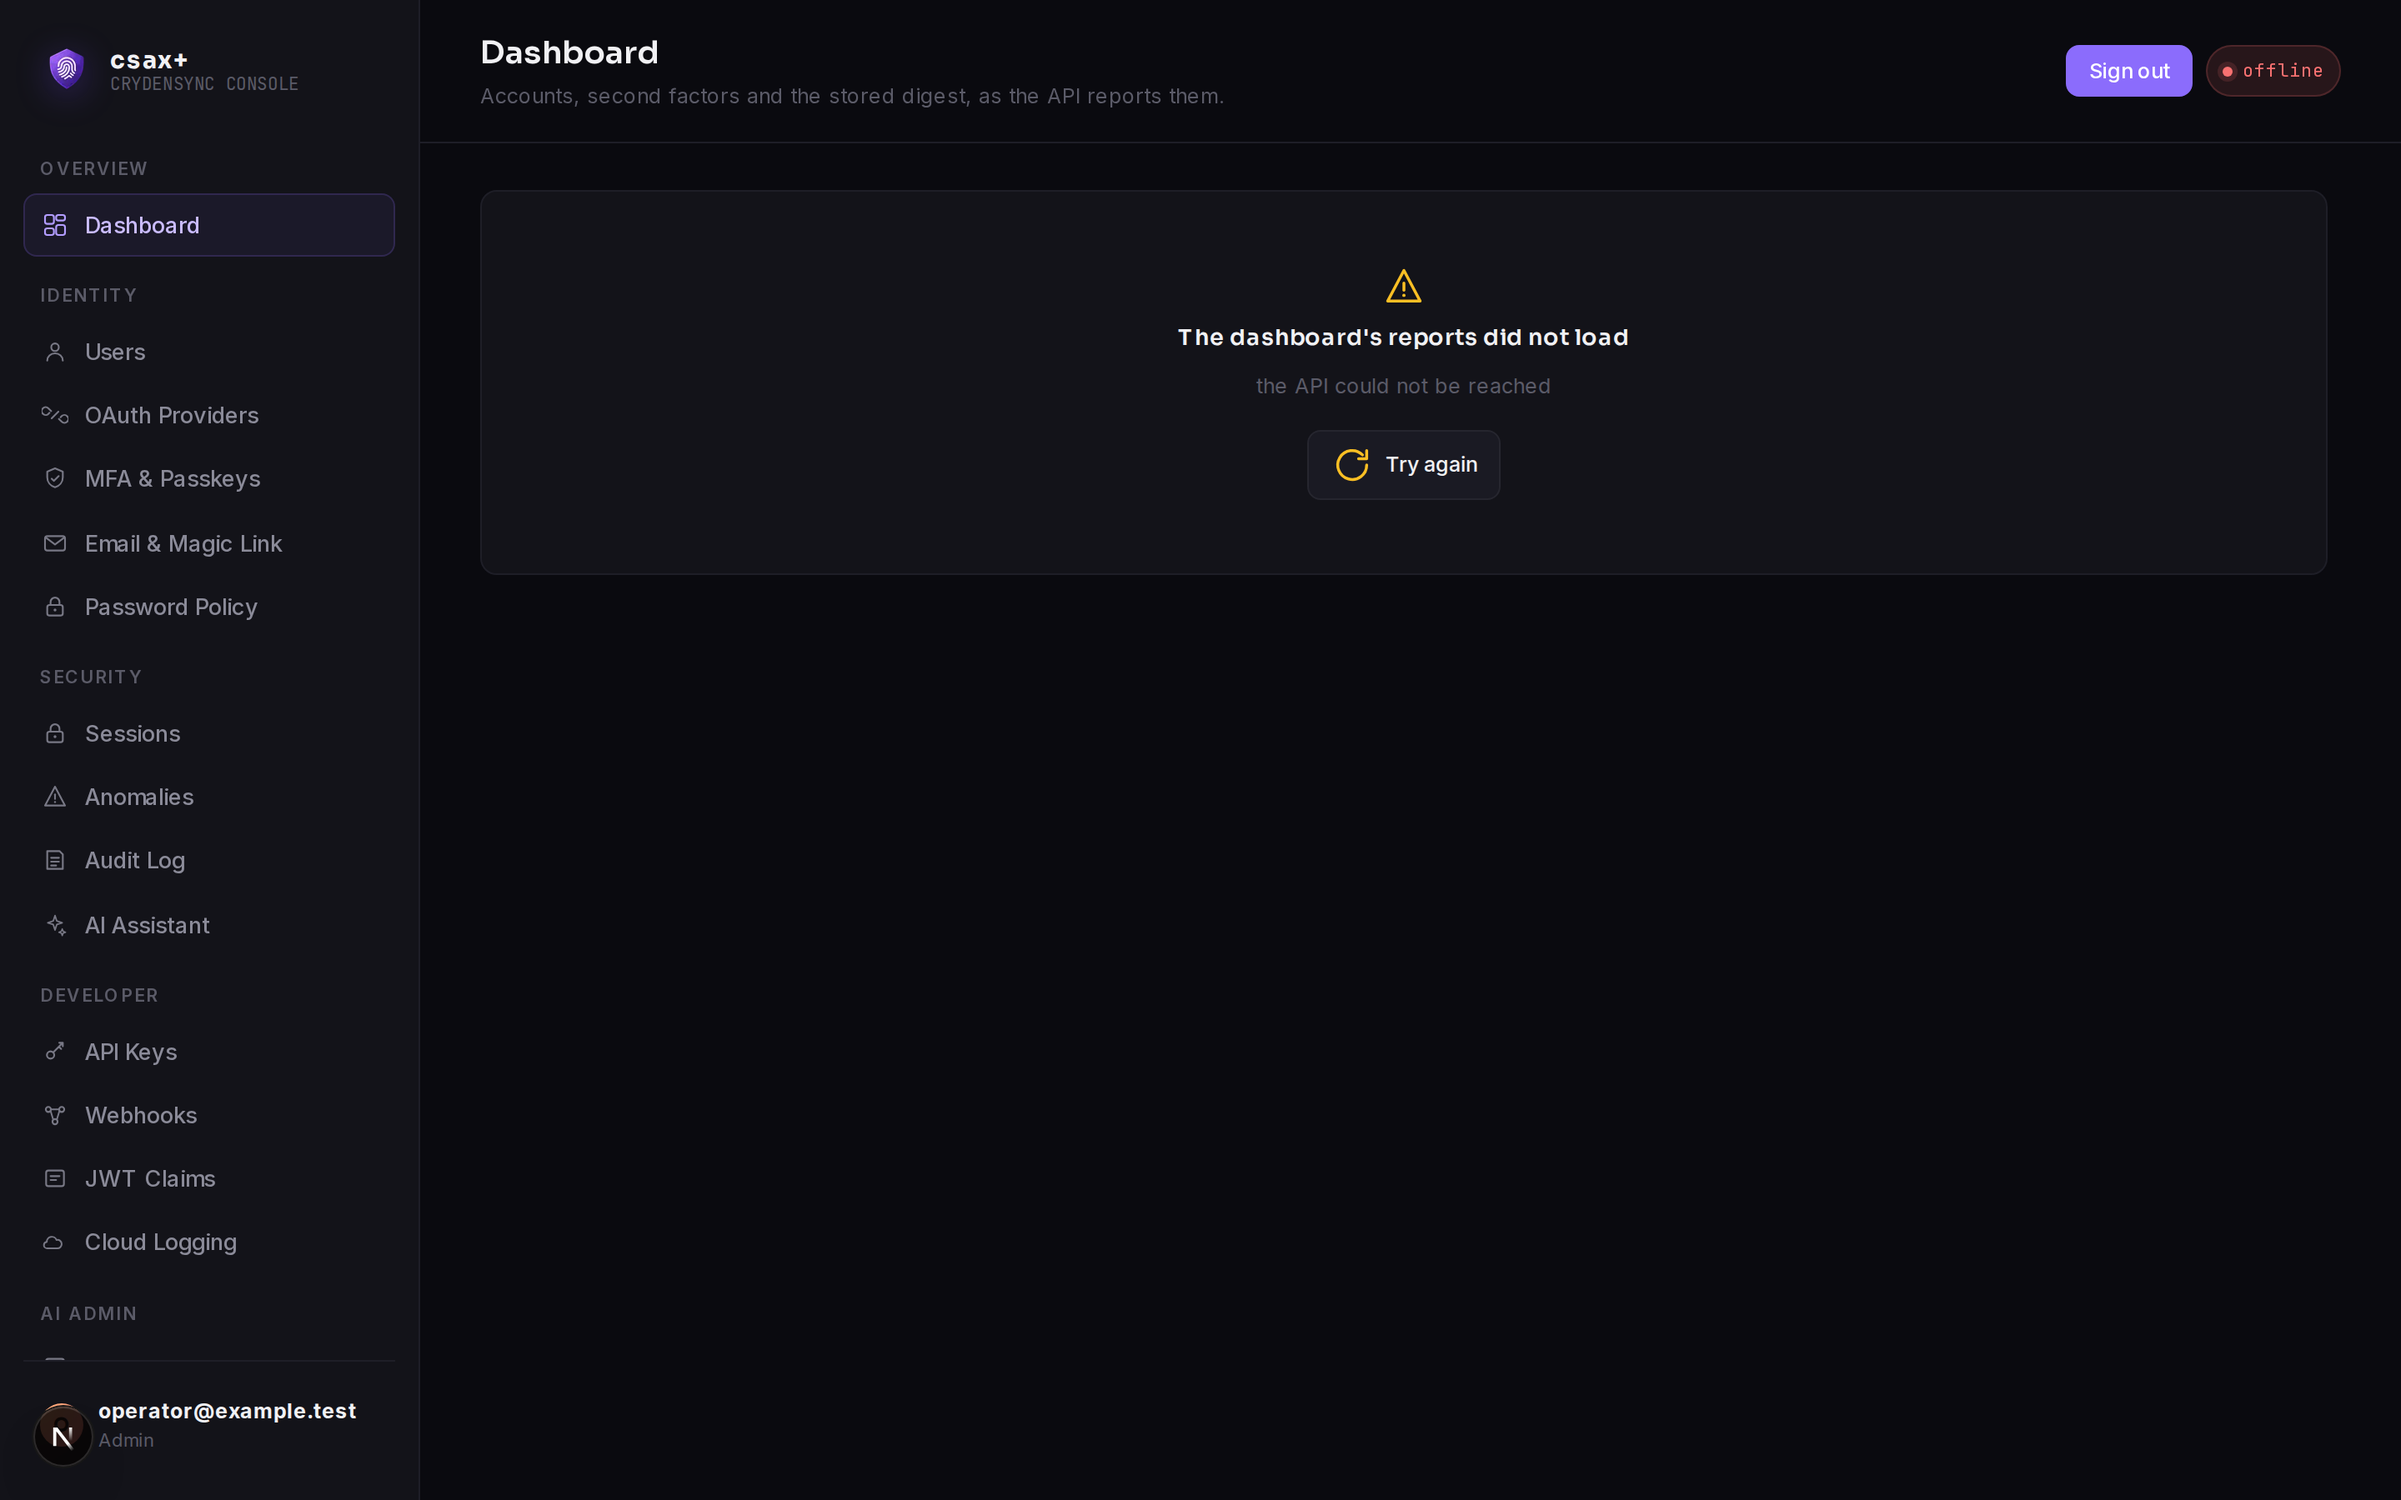
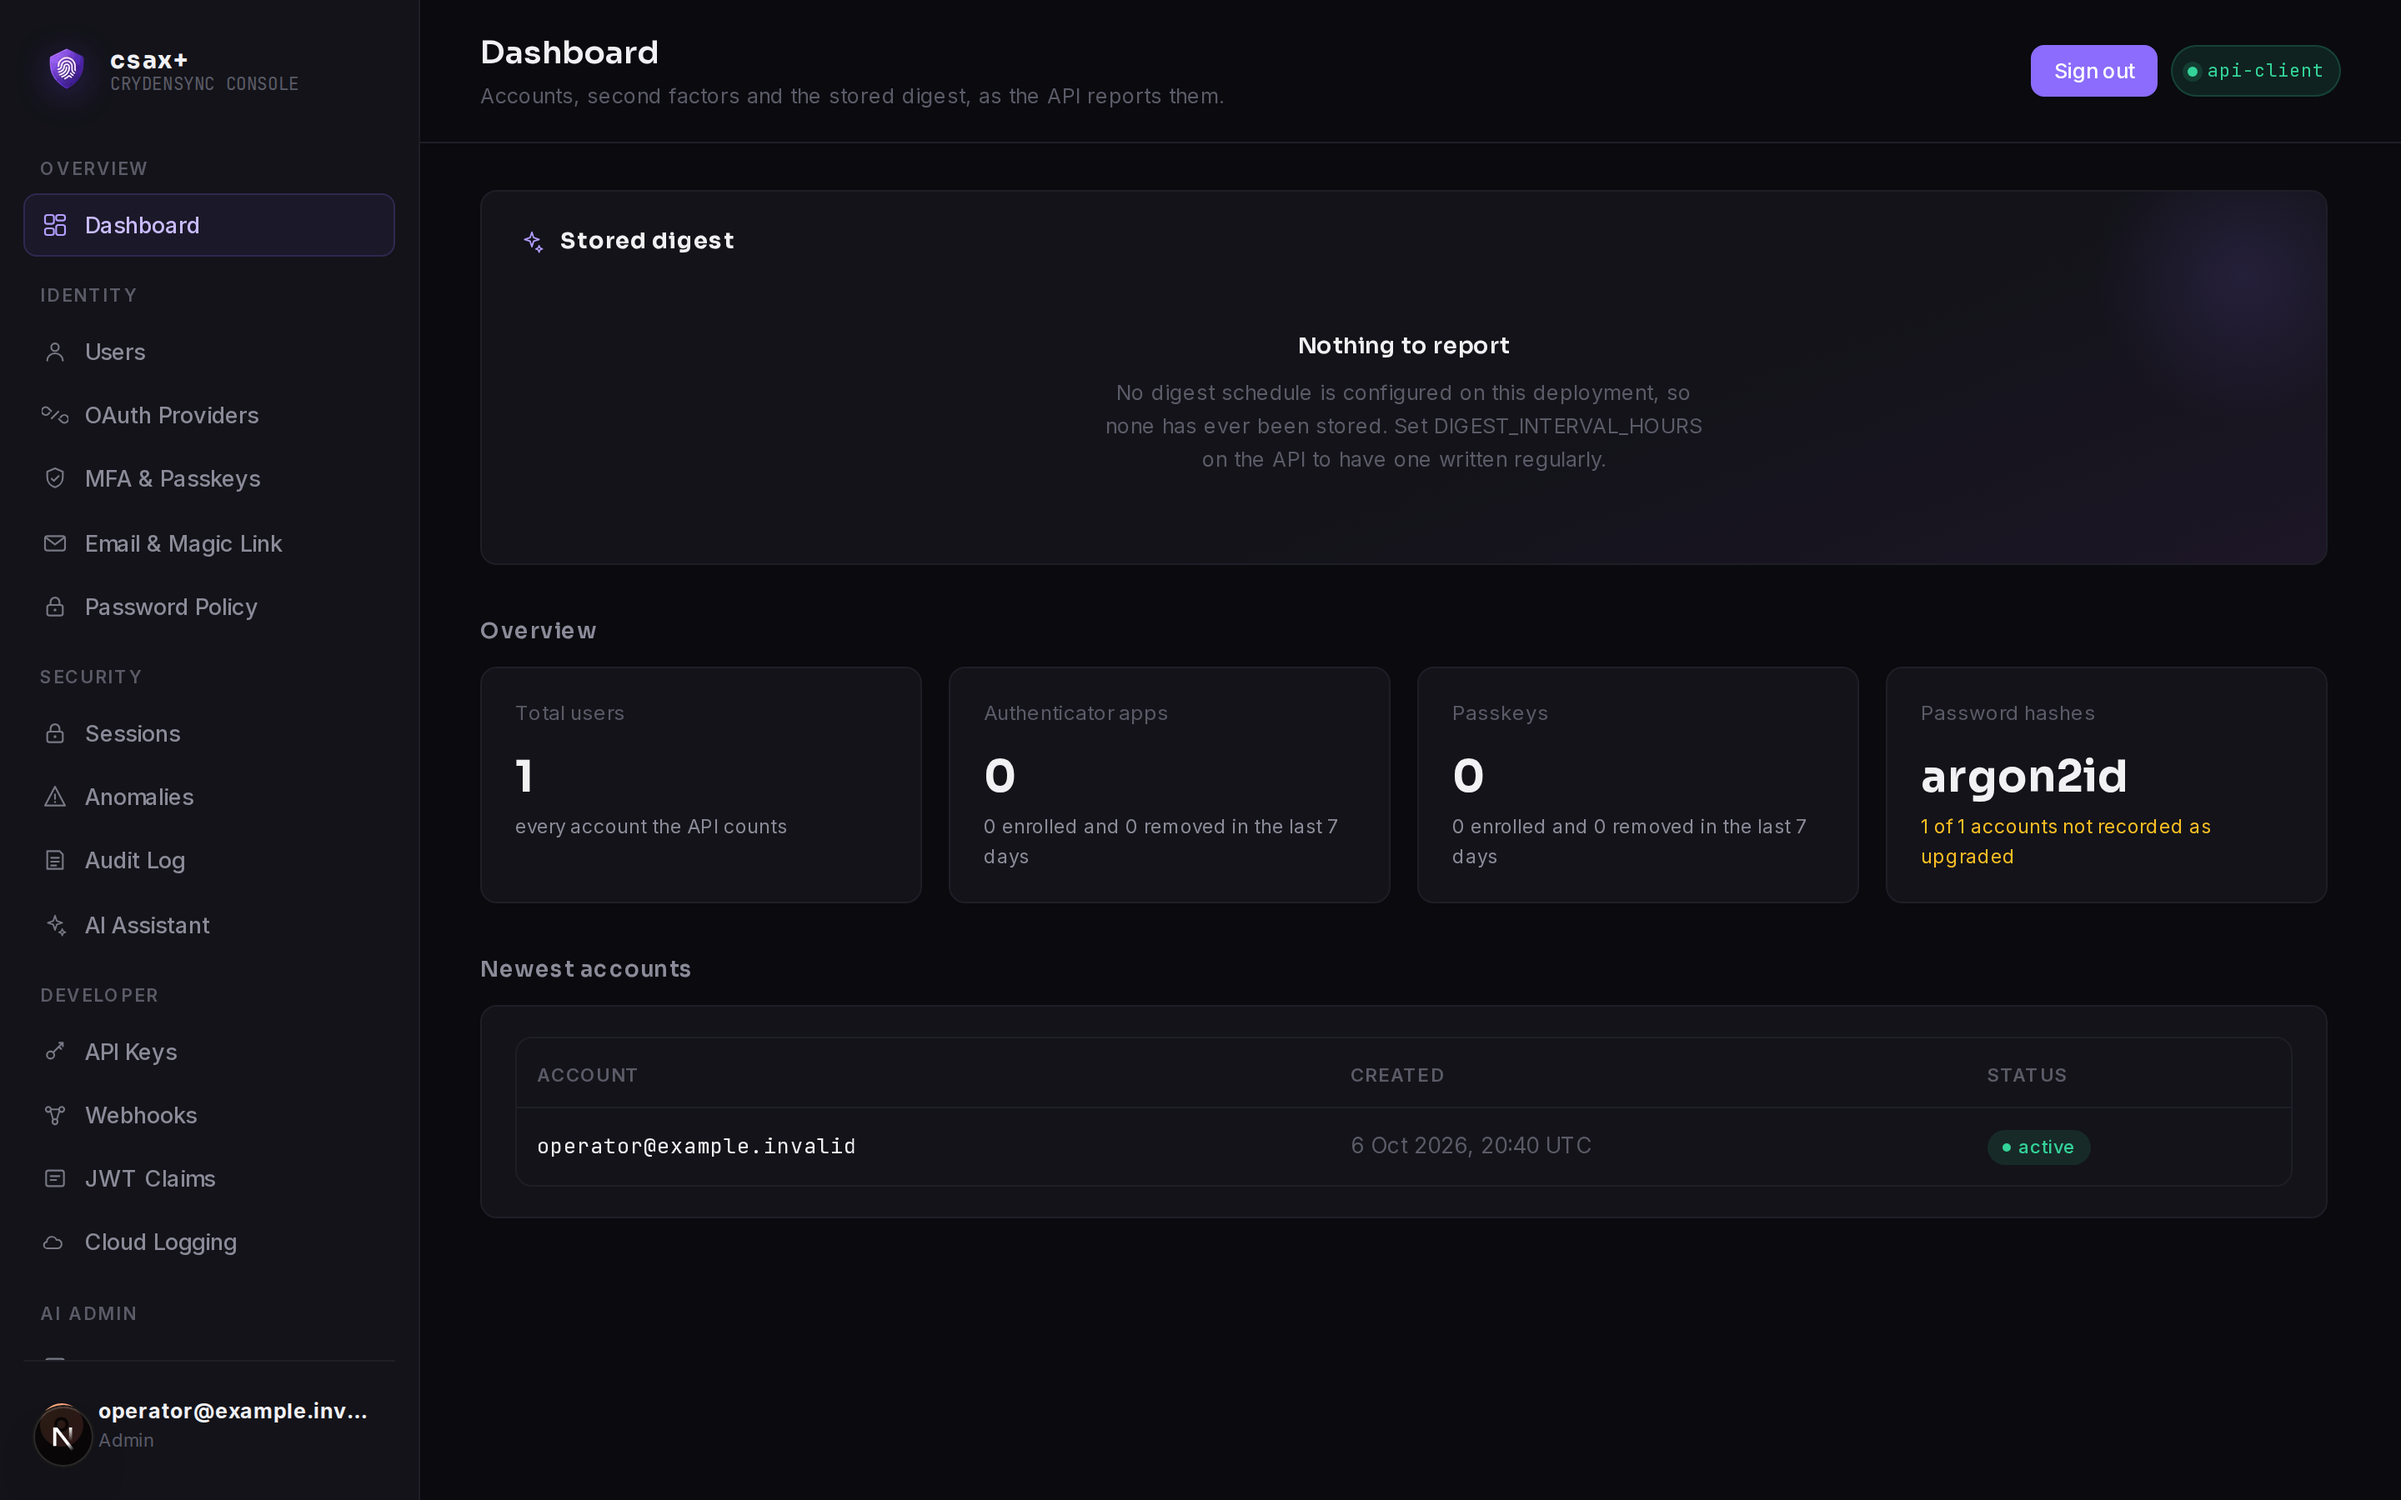
docs(screenshots): take the console images from a real sign-in
The dashboard screenshot was the offline state, because the capture harness
had no way to sign in: it mints a session cookie whose API tokens are
placeholders, which is enough for the shell and not enough for a screen that
reads the API.

The harness now signs in for real when CSAX_SCREENSHOT_EMAIL and
CSAX_SCREENSHOT_PASSWORD are set, reading them from the environment or the
gitignored .env.local so no credential is written into a script, and falling
back to the minted cookie when they are not. The committed images are the
real-deployment ones: the api-client tag, the deployment's own counts, and
the digest saying plainly that no schedule is configured.

Verified against a local CrydenSync API on Postgres, with a real operator
account: sign-in, the four reports, and the guide capture all run.

pnpm lint, pnpm typecheck both clean.

diff --git a/tests/screenshots/capture.spec.ts b/tests/screenshots/capture.spec.ts
@@ -1,6 +1,6 @@
 import { expect, test, type Page } from "@playwright/test";
 
-import { mintSessionCookie } from "./session";
+import { localSetting, mintSessionCookie } from "./session";
 
 /**
  * Writes the guide's screenshots into `docs/guide/screenshots/`.
@@ -64,22 +64,46 @@ test.describe("guide screenshots", () => {
   });
 
   test("the console, with a session minted locally", async ({ page, context }) => {
-    const cookie = await mintSessionCookie();
-    test.skip(
-      cookie === null,
-      "no CSAX_SESSION_SECRET in .env.local, so a console session cannot be minted here",
-    );
-    if (cookie === null) return;
+    // Two ways to get a session, and which one is available decides what the
+    // console images show. With credentials the shot is of a real deployment,
+    // tiles and rows and all. Without them the minted cookie gives a signed-in
+    // shell whose API tokens are placeholders, so the dashboard shows the state
+    // it shows an operator when the API cannot be reached, which is still a
+    // state the console really reaches.
+    //
+    // The credentials come from the environment or the gitignored `.env.local`,
+    // never from this file: a password written down here would be a password in
+    // the repository.
+    const email = localSetting("CSAX_SCREENSHOT_EMAIL");
+    const password = localSetting("CSAX_SCREENSHOT_PASSWORD");
 
-    await context.addCookies([
-      { name: cookie.name, value: cookie.value, url: "http://localhost:3000" },
-    ]);
+    if (email !== undefined && password !== undefined) {
+      await page.goto("/login");
+      await settle(page);
+      await page.getByLabel("Email").fill(email);
+      await page.getByLabel("Password").fill(password);
+      await page.getByRole("button", { name: "Sign in" }).click();
+      // A cold dev server compiles the console and the route behind the form.
+      await expect(page).toHaveURL(/\/dashboard$/, { timeout: 60_000 });
+    } else {
+      const cookie = await mintSessionCookie();
+      test.skip(
+        cookie === null,
+        "no CSAX_SCREENSHOT_EMAIL/CSAX_SCREENSHOT_PASSWORD and no CSAX_SESSION_SECRET to mint one with",
+      );
+      if (cookie === null) return;
 
-    await page.goto("/dashboard");
+      await context.addCookies([
+        { name: cookie.name, value: cookie.value, url: "http://localhost:3000" },
+      ]);
+
+      await page.goto("/dashboard");
+    }
+
     await settle(page);
 
-    // The minted cookie is the console's own format, so this proves the shot is
-    // of a real signed-in render rather than the sign-in redirect.
+    // Whichever way the session was obtained, this proves the shot is of a real
+    // signed-in render rather than the sign-in redirect.
     await expect(page).toHaveURL(/\/dashboard$/);
     await expect(page.getByRole("heading", { name: "Dashboard" })).toBeVisible();
 

diff --git a/docs/build/PROGRESS.md b/docs/build/PROGRESS.md
@@ -286,16 +286,17 @@ The console never holds the engine's primary credentials. Only `READONLY_DATABAS
   `20.8em` with its own scrollbar. The cap is in `em` rather than pixels so it lands on a line
   boundary (13 lines at a 1.6 line height); a round pixel value cut the last visible line in half.
   The accounts table scrolls inside `.table-scroll`, as the prototype's did.
-- **The guide's dashboard image is the offline state, on purpose.** The screenshot harness mints a
-  session cookie with placeholder API tokens, so with no CrydenSync API running the dashboard has
-  nothing to read and draws the one sentence it draws for an unreachable API, under an `offline`
-  tag. That is a state the console really reaches, which is the rule the capture script sets for
-  itself, and the README caption says so rather than implying the empty screen is the whole screen.
-  Two things came out of capturing it: the shot has to wait for the screen to leave its loading
-  state, because the reads happen after hydration and the first attempt photographed the skeletons;
-  and `pnpm screenshots` now pins `CRYDEN_MODE=live`, because the checkout's default of `fixtures`
-  tagged the health check as fixtures while the reports, which have no fixtures implementation,
-  still said the API was unreachable.
+- **The guide's dashboard image is a real deployment, not a mock.** The capture harness takes
+  `CSAX_SCREENSHOT_EMAIL`/`CSAX_SCREENSHOT_PASSWORD` from the environment or the gitignored
+  `.env.local` and signs in for real, so the committed shot shows the `api-client` tag, live counts
+  and a real `not_configured` digest. Without those variables it falls back to the minted cookie,
+  whose API tokens are placeholders: that still photographs a signed-in shell, with every
+  API-backed report showing the state an unreachable API produces. Two things came out of capturing
+  it: the shot has to wait for the screen to leave its loading state, because the reads happen after
+  hydration and the first attempt photographed the skeletons; and `pnpm screenshots` now pins
+  `CRYDEN_MODE=live`, because the checkout's default of `fixtures` tagged the health check as
+  fixtures while the reports, which have no fixtures implementation, still said the API was
+  unreachable.
 
 ## Tier summaries
 

diff --git a/README.md b/README.md
@@ -190,7 +190,7 @@ never rewrites a committed image.
 | ![The landing page](docs/guide/screenshots/landing-hero.png) | ![The console map on the landing page](docs/guide/screenshots/landing-console-map.png) |
 | The landing page at `/`. Its console map is generated from the console's own navigation. | The same page's console section, with the read-only tag on the four AI screens. |
 | ![The sign-in screen](docs/guide/screenshots/sign-in.png) | ![The console dashboard](docs/guide/screenshots/console-dashboard.png) |
-| Operator sign-in. A second factor, when the account has one, is asked for on the next step. | The dashboard. This checkout has no CrydenSync API running, so the tag reads `offline` and all four reports answer with one sentence, drawn once. |
+| Operator sign-in. A second factor, when the account has one, is asked for on the next step. | The dashboard against a real API: the tag reads `api-client`, the numbers are that deployment's own, and the digest says plainly that no schedule is configured. |
 | ![The design system gallery](docs/guide/screenshots/design-system.png) | ![A screen that is not built yet](docs/guide/screenshots/console-screen-not-built-yet.png) |
 | `/design`, the dev-only component gallery. It 404s in a production build. | Every screen that is still planned says so, and names its own route. |
 

diff --git a/docs/guide/setup.md b/docs/guide/setup.md
@@ -139,6 +139,12 @@ itself: the console images are of the live adapter, and the checkout's own defau
 would tag the health check as fixtures while the dashboard's reports, which have no fixtures
 implementation, still said the API was unreachable.
 
+Set `CSAX_SCREENSHOT_EMAIL` and `CSAX_SCREENSHOT_PASSWORD` first to have the console images taken
+from a real sign-in, which is how the committed ones were made. Without them the run mints a session
+cookie carrying placeholder API tokens, which still photographs a signed-in shell but shows every
+API-backed report as unreachable. Put the credentials in the gitignored `.env.local`, not in a
+script.
+
 ## When it will not start
 
 The console validates everything at boot and stops with every problem at once, without printing any
